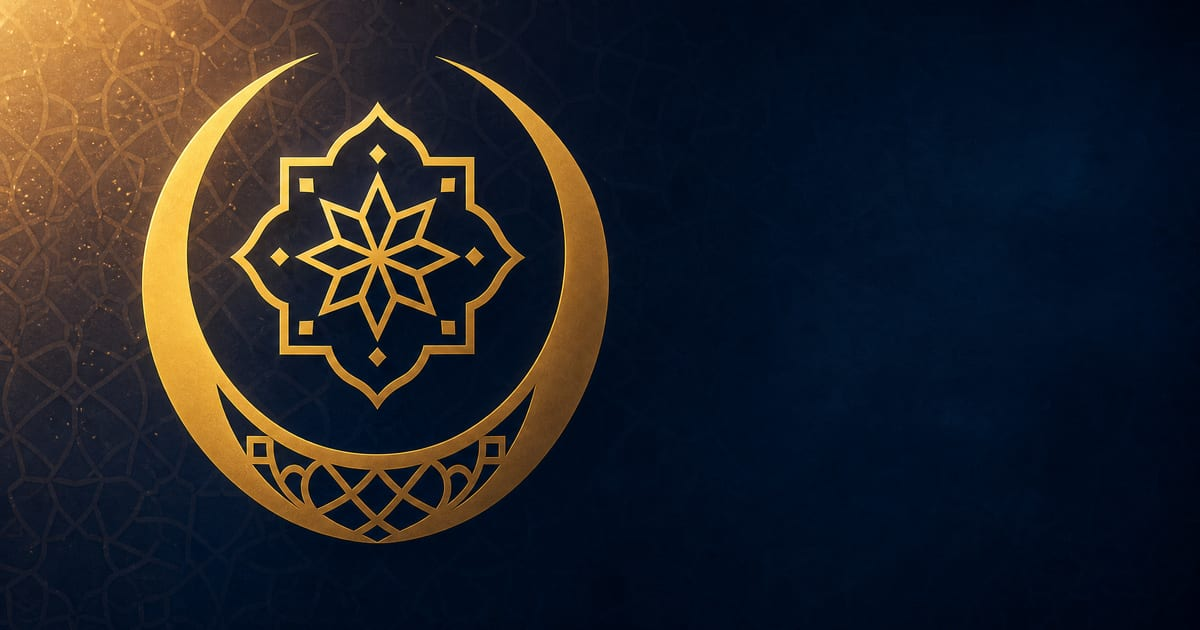
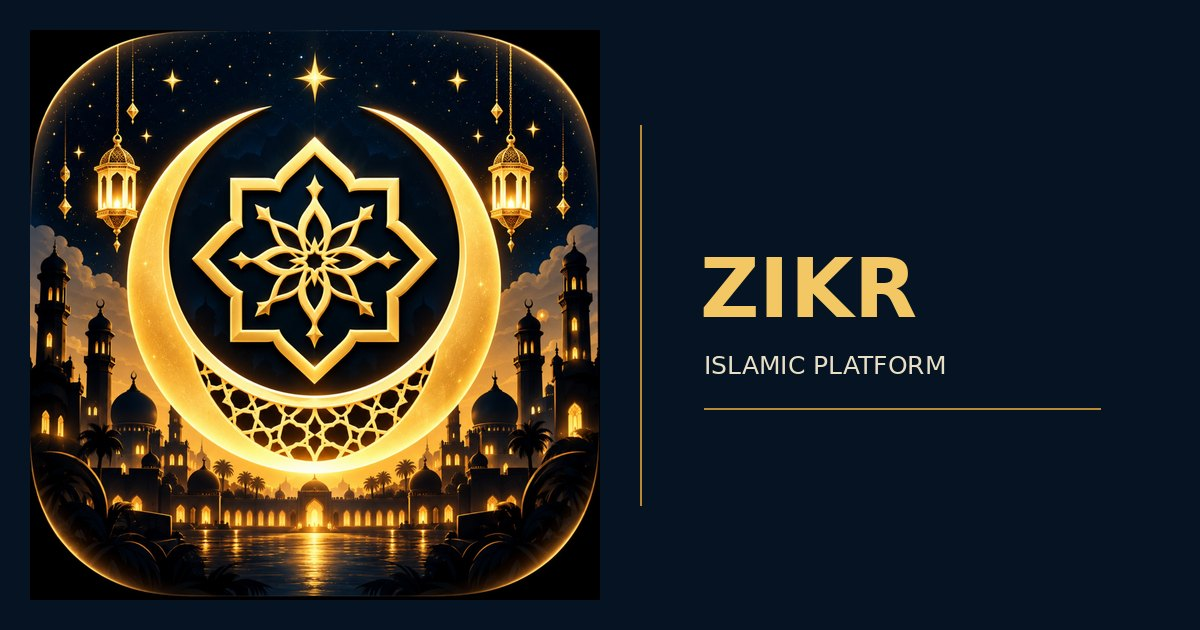
feat(branding): roll out ZIKR gold crescent identity
* docs(branding): document ZIKR gold crescent identity

* fix(pwa): use dedicated ZIKR maskable app icon

* fix(branding): point Apple touch icon to current PNG asset

* docs(branding): record identity rollout and remaining binary asset work

* feat(branding): install approved ZIKR identity assets

* docs(branding): record installed identity assets

* fix(branding): align browser theme and Apple touch icon

diff --git a/src/app/layout.tsx b/src/app/layout.tsx
@@ -171,7 +171,7 @@ gtag('config', '${googleAnalyticsId}', { send_page_view: true });`}
             {`(function(w,d,s,l,i){w[l]=w[l]||[];w[l].push({'gtm.start':new Date().getTime(),event:'gtm.js'});var f=d.getElementsByTagName(s)[0],j=d.createElement(s),dl=l!='dataLayer'?'&l='+l:'';j.async=true;j.src='https://www.googletagmanager.com/gtm.js?id='+i+dl;f.parentNode.insertBefore(j,f);})(window,document,'script','dataLayer','${googleTagManagerId}');`}
           </Script>
         )}
-        <meta name="theme-color" content="#0A2A1E" />
+        <meta name="theme-color" content="#061322" />
         <meta
           name="google-adsense-account"
           content={process.env.NEXT_PUBLIC_ADSENSE_CLIENT ?? "ca-pub-2457467624248791"}
@@ -186,7 +186,7 @@ gtag('config', '${googleAnalyticsId}', { send_page_view: true });`}
           name="apple-mobile-web-app-title"
           content={siteConfig.shortName}
         />
-        <link rel="apple-touch-icon" href="/icons/icon-192.svg" />
+        <link rel="apple-touch-icon" href="/apple-touch-icon.png" />
         <link rel="manifest" href="/manifest.webmanifest" />
       </head>
       <body className={locale === "ar" ? "font-arabic antialiased" : "font-sans antialiased"}>

diff --git a/src/app/manifest.ts b/src/app/manifest.ts
@@ -9,8 +9,8 @@ export default function manifest(): MetadataRoute.Manifest {
     start_url: '/?utm_source=pwa',
     scope: '/',
     display: 'standalone',
-    background_color: '#000000',
-    theme_color: '#0A2A1E',
+    background_color: '#061322',
+    theme_color: '#061322',
     orientation: 'portrait-primary',
     lang: 'ar',
     dir: siteConfig.dir,
@@ -28,7 +28,7 @@ export default function manifest(): MetadataRoute.Manifest {
         purpose: 'any',
       },
       {
-        src: '/icons/icon-512.png',
+        src: '/icons/icon-512-maskable.png',
         sizes: '512x512',
         type: 'image/png',
         purpose: 'maskable',

diff --git a/docs/branding/identity-rollout.md b/docs/branding/identity-rollout.md
@@ -1,0 +1,30 @@
+# ZIKR brand identity rollout
+
+## Approved direction
+Use the supplied gold crescent / Islamic geometric emblem artwork on midnight navy.
+Palette: midnight navy #061322, warm gold #F5C45C, soft ivory #FFF4D8.
+
+## Installed assets on this branch
+- PWA icons: `/icons/icon-192.png`, `/icons/icon-512.png`, and `/icons/icon-512-maskable.png`.
+- Apple touch icon: `/apple-touch-icon.png`.
+- Favicon and primary brand/social artwork are installed under `public/`.
+- Android launcher foreground and all density-specific regular/round mipmap icons are installed.
+- iOS AppIcon artwork is installed at 1024x1024.
+- Brand guidelines are recorded in `public/branding/zikr-brand-guidelines.md`.
+
+## Verification gate
+Do not merge until the repository checks pass:
+- `pnpm images:check`
+- `pnpm mobile:check`
+- `pnpm check`
+- `pnpm lint`
+- `pnpm build`
+
+The GitHub Actions quality gate is running for the latest asset commit. A passing PR quality gate must be confirmed before merge.
+
+## Rollout
+After checks pass, merge to `main` and verify the Vercel production deployment.
+Android/iOS binaries must be rebuilt and released separately; a web deployment does not
+update already-installed native app icons.
+
+No Supabase migrations or production data are part of this branding rollout.

diff --git a/BRAND_ASSETS_README.md b/BRAND_ASSETS_README.md
@@ -1,0 +1,33 @@
+# ZIKR approved brand binary assets
+
+This archive contains only the 20 binary artwork and launcher-icon files. It deliberately
+excludes source-code files so it cannot overwrite newer application code.
+
+## Apply from Termux
+
+1. Download this archive to your phone.
+2. Open Termux and go to your existing Zikr repository.
+3. Run:
+
+```bash
+git fetch origin
+git switch branding/zikr-identity
+unzip -o ~/storage/downloads/ZIKR_brand_binary_assets_only.zip -d .
+git status --short
+git add public/branding public/favicon.ico public/apple-touch-icon.png public/icons android/app/src/main/res/drawable/ic_launcher_foreground.png android/app/src/main/res/mipmap-* ios/App/App/Assets.xcassets/AppIcon.appiconset/AppIcon-512@2x.png
+git commit -m "feat(branding): install approved ZIKR web and native icons"
+git push origin branding/zikr-identity
+```
+
+If the archive is stored in another folder, change only the path passed to `unzip`.
+
+## After push
+
+Open PR #149:
+https://github.com/zikrofficial-X/Zikr/pull/149
+
+Run the image/mobile/type/lint/build checks. Merge only after they pass.
+The native Android and iOS packages must then be rebuilt and reinstalled.
+
+The archive does not contain source-code changes, database migrations, or deployment
+commands.

diff --git a/public/branding/zikr-brand-guidelines.md b/public/branding/zikr-brand-guidelines.md
@@ -1,0 +1,18 @@
+# ZIKR Brand Identity
+
+The approved visual identity is the supplied gold crescent, Islamic geometric emblem,
+hanging lanterns and mosque silhouette on a deep navy field.
+
+## Canonical assets
+- `/branding/logo-gold.webp`: primary full brand artwork used by the application Logo component.
+- `/branding/og-image.jpg`: canonical 1200x630 social preview image.
+- `/icons/icon-192.png` and `/icons/icon-512.png`: PWA installation icons.
+- `/icons/icon-512-maskable.png`: dedicated safe-zone maskable icon.
+
+## Palette
+- Midnight navy: `#061322`
+- Warm gold: `#F5C45C`
+- Soft ivory: `#FFF4D8`
+
+Do not use the full detailed artwork as a tiny favicon. Small app icons should use
+a centered emblem/crescent crop with generous padding and strong contrast.
